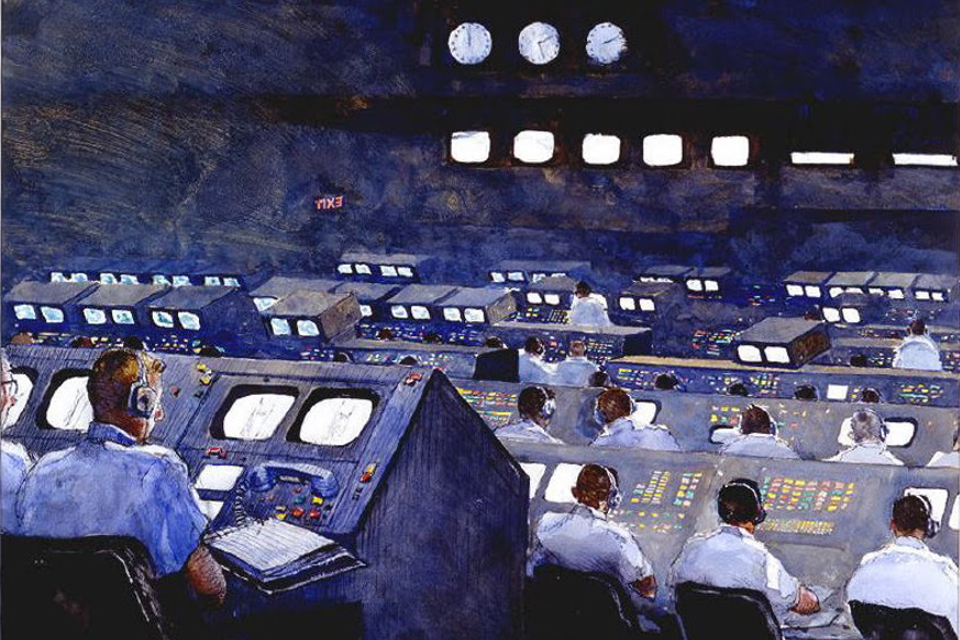
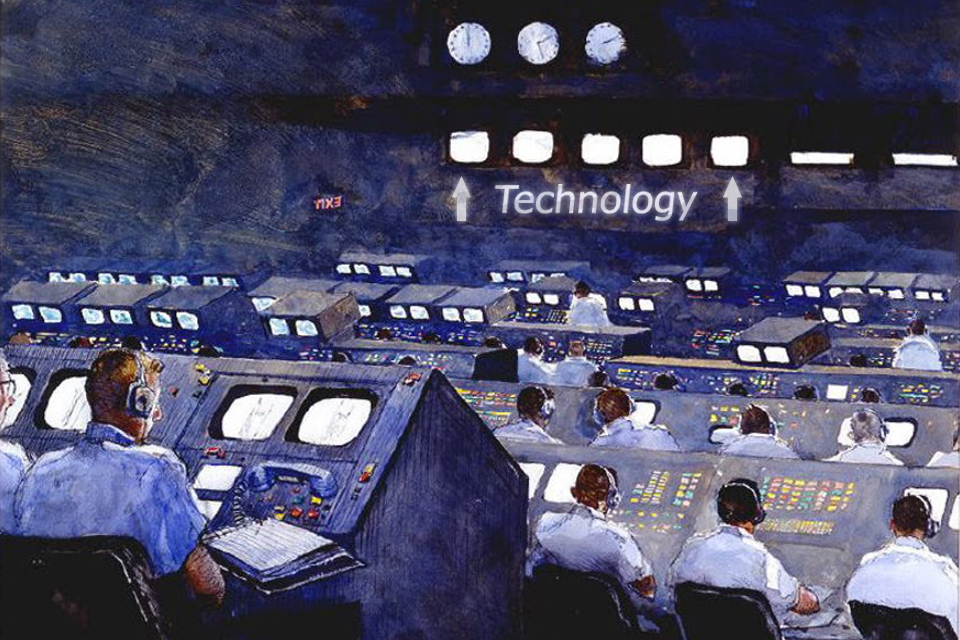
Update, Tech screen

diff --git a/nccarlso/Buildings.js b/nccarlso/Buildings.js
@@ -39,15 +39,12 @@ comms1.image = Textures.load("images/4.png");
 ///////////////////////////////////////////////////////////////////////////////////////////////////////////////
 
 var buildings = [];
-var levels = [];
 var buildingCount = 0;
 var maxBuildings = 250;
 var buildingTypes = 4;
 
 function initBuildings(){
 	for(var i = 0; i < maxBuildings; i++){
-		if(i<buildingTypes)
-		    levels[i] = 0;
 		var spriteTemp  = new Sprite();
 		spriteTemp.id = "null";
 		world.addChild(spriteTemp);
@@ -122,9 +119,7 @@ function makeModel(model){
 		break;
 	}
 }
-function getLevel(model){
-	return levels[model];
-}
+
 function BuildingSize(model){
 	var building = getModel(model);
 	var temp = {};
@@ -143,7 +138,7 @@ function buildResource(){
 	 airInc = 0;
 	 resInc = 0;
 	updateBuild();
-	//updateResource();
+	updateResource();
 	console.log("food:",food);
 	console.log("money:",money);
 	console.log("energy:",energy);
@@ -155,18 +150,27 @@ function buildResource(){
 	console.log("happiness:",happiness);
 }
 function updateBuild(){ //Every 6 months game time
-//1=living, 2=food prod. 3=solar, 4=comm. 5=turbine 6=reactor
-//7=mine, 8=lab, 9=photosyn. 10=gravity 11=magnetic
-	energy += turbine + solar;
-	food += 2*green + 2*hydro;
+	energyInc += turbine + 3*solar;
+	foodInc += 2*green + 2*hydro;
 	if (popMars/5>live)
-	    happy--;
-	air += photosyn*.01;
-	minerals += mine;
-	research += .1*comms;
+	    happyInc--;
+	airInc += photosyn*.01;
+	mineralInc += mine;
+	resInc += .1*comms;
 	
-	energy -= (live + mine + green + hydro + comms);
-	water -= 2*hydro + .5*green + .5*live;
+	energyInc -= live + mine + green + hydro + comms;
+	waterInc -= 2*hydro + .5*green + .5*live;
+}
+
+function updateResource(){
+	money += moneyInc;
+	food += foodInc;
+	water += waterInc;
+	minerals += mineralInc;
+	energy += energyInc;
+	happiness += happyInc;
+	popMars += popInc;
+	air += airInc;
 }
 function resetVariables(){
 	money = 100;
@@ -196,4 +200,3 @@ function checkOccupied(model, xOff, yOff){
 	}
 	return false;
 }
-

diff --git a/nccarlso/earth.js b/nccarlso/earth.js
@@ -7,18 +7,20 @@ var earthActive = false;
 function startEarth(){
 	earthActive = true;
 	world.addChild(bg);
+	world.addChild(techHighlight);
 	redrawHUD();
 	if(firstSolar){
 		setInterval(solarTime, 1000 / 30);
 		firstSolar = false;
 	}
-	//canvas.addEventListener("mousemove", mouseHover, false);
+	canvas.addEventListener("mousemove", earthHover, false);
 }
 function stopEarth(){
 	earthActive = false;
 	world.removeChild(bg);
-	//initSpritesEarth();
-	//canvas.removeEventListener("mousemove", mouseHover)
+	techHighlight.alpha = 0;
+	world.removeChild(techHighlight);
+	canvas.removeEventListener("mousemove", earthHover)
 }
 //////////////////////////////////////////////////////////////////////////////////////////////////////
 
@@ -30,6 +32,14 @@ var bg=new Sprite(); {
     bg.y=0;
     bg.image=Textures.load(back);
 }
+
+var techHighlight = new Sprite();
+techHighlight.x = 437;
+techHighlight.y = 119;
+techHighlight.width = 325;
+techHighlight.height = 61;
+techHighlight.image = Textures.load("images/highlight.png");
+techHighlight.alpha = 0;
 
 function getLifetime(){
 	var ePerCapita = 2000*energyFactor; //2,000 kg of oil equivalent per capita at 2015
@@ -44,4 +54,11 @@ function getLifetime(){
 	if(lifetime > 500000000);
 	   lifetime = 500000000;
 	return lifetime;
+}
+
+function earthHover(){
+	console.log(checkTechOver(gInput.mouse.x, gInput.mouse.y));
+	if(checkTechOver(gInput.mouse.x, gInput.mouse.y)){
+		techHighlight.alpha = 0.3;
+	}else techHighlight.alpha = 0;
 }

diff --git a/nccarlso/drawHUD.js b/nccarlso/drawHUD.js
@@ -18,7 +18,7 @@ function displayHUDtext(){
 
 	clearText();
 
-	if(marsActive||solarActive){
+	if(marsActive || solarActive){
 		//Mars text
 		moneyRound = Math.ceil(money*10)/10;
 		energyRound = Math.ceil(energy*10)/10;
@@ -200,7 +200,7 @@ manager.onMouseUp = function () {
 						}
 					} 
 					else { //Space
-						if (marsActive || earthActive){
+						if (!solarActive){
 							stopActive();
 							startSolar();
 						}
@@ -213,7 +213,7 @@ manager.onMouseUp = function () {
 				break;
 			}
 		} //Switch to tech and back
-		if(checkTechClicked(gInput.mouse.x, gInput.mouse.y)){
+		if(checkTechOver(gInput.mouse.x, gInput.mouse.y)){
 			if(earthActive){
 				stopActive();
 				startTech();

diff --git a/nccarlso/tech.js b/nccarlso/tech.js
@@ -21,7 +21,7 @@ function stopTech(){
 	//canvas.removeEventListener("mousemove", mouseHover)
 }
 
-function checkTechClicked(x, y) {
+function checkTechOver(x, y) {
 	if (earthActive){
 		if (x > 437 && x < 762 && y > 119 && y < 180) {
 			return true;
@@ -35,10 +35,10 @@ function checkTechClicked(x, y) {
 }
 //////////////////////////////////////////////////////////////////////////////////////////////////////
 
-var techBG="images/techBG.png";
+var techBG="images/terminal.png";
 var techbg=new Sprite(); {
-    techbg.width=3743;
-    techbg.height=1434;
+    techbg.width=960;
+    techbg.height=640;
     techbg.x=0;
     techbg.y=0;
     techbg.image=Textures.load(techBG);

diff --git a/nccarlso/Solar.js b/nccarlso/Solar.js
@@ -13,11 +13,11 @@ function getMonths(){
 	return Math.floor((days%365) / 31)%getDays() + 1;
 }
 function getDays(){
-	return days%365 + 1;
+	return Math.floor(days%365 + 1);
 }
 function getTimeToNextLaunch(){
 	console.log(getYears())
-	return 780-((days+77)%780); //Synodic period for Mars/Earth
+	return 700-((days)%780); //Synodic period for Mars/Earth
 }
 
 var SolarSystem = new Sprite();
@@ -181,7 +181,7 @@ function solarTime(){
 			Rocket.x = 20+(((41*RocketOffset)/26)-((RocketOffset*RocketOffset)/26));
 			RocketOffset+=(mult)/1000;
 		}
-		days++;
+		days += (mult/365);
 	}
 }
 

diff --git a/nccarlso/index.html b/nccarlso/index.html
@@ -53,7 +53,7 @@
 			var photosyn = 0;
 			var gravity = 0;
 			var magnet = 0;
-			/*Resource incrementers
+			//Resource incrementers
 		    var moneyInc = 0;
 	        var foodInc = 0;
 	        var waterInc = 0;
@@ -62,7 +62,7 @@
 	        var happyInc = 0;
 	        var popInc = 0;
 	        var airInc = 0;
-	        var resInc = 0;*/
+	        var resInc = 0;
 		</script>
 	</head>
 	<body onload="initGame('canvas'); start(); initSolar();">
